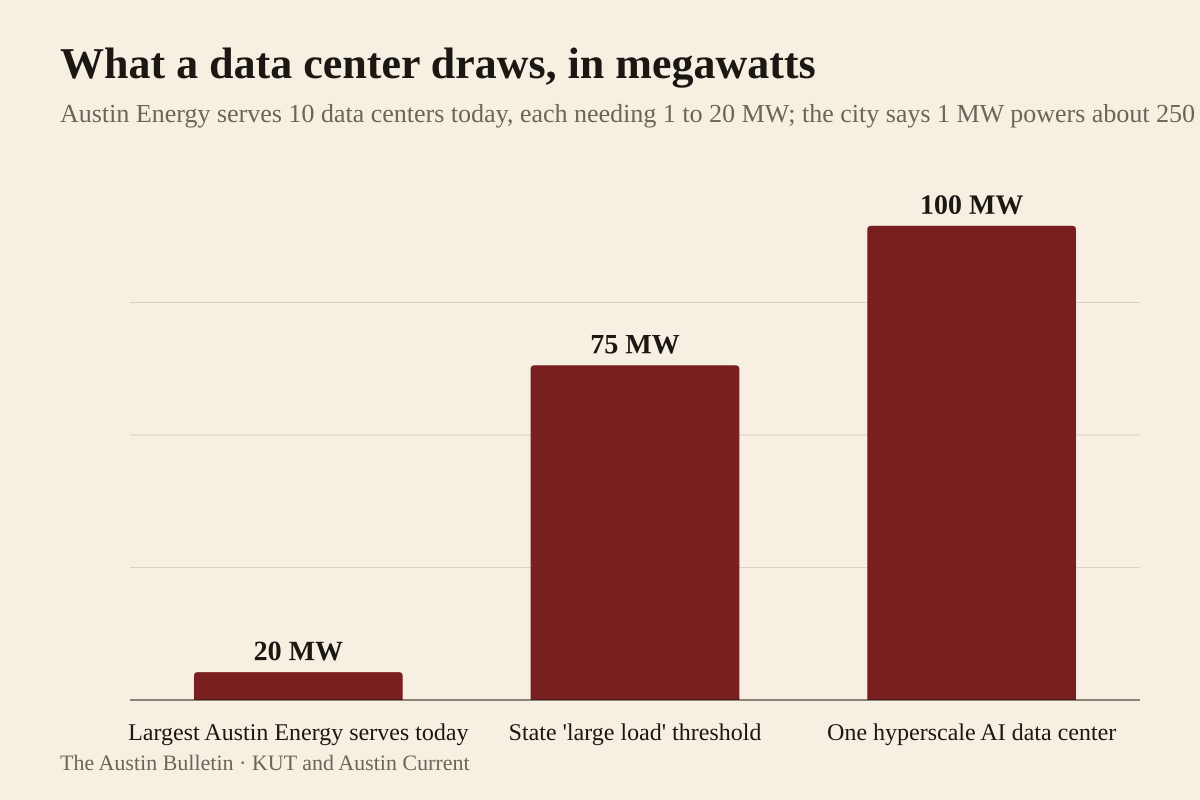
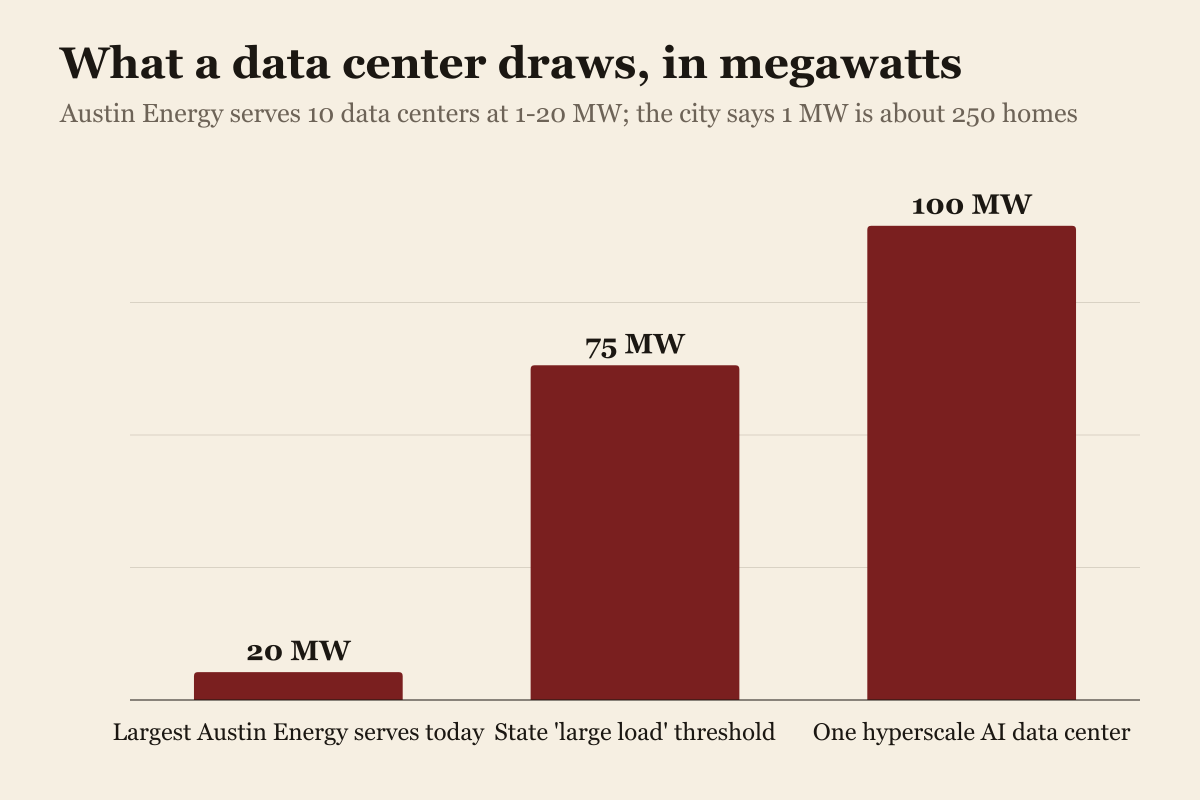
fix: Big Story chart formatting, per Evan's annotated review
The hero image sits flush with the text column — the wide-screen bleed
was clipping chart titles at the right edge. Charts no longer bake a
credit footer into the PNG; the HTML figcaption is the single credit.
graphic.mjs refuses titles over 46 chars and subtitles over 88, since
rendered width varies with the rasterizer's font; two mutation-checked
tests pin the caps. All bar/timeline graphics re-rendered; five specs
re-worded to fit, figures unchanged.

diff --git a/src/css/style.css b/src/css/style.css
@@ -229,12 +229,10 @@ h2.glance-title::after { content: none; }
   .glance-grid li:nth-child(2n + 1) { border-left: none; }
 }
 
-/* Lead story: larger headline; its image bleeds past the text column on wide screens */
+/* Lead story: larger headline. The hero image sits flush with the text
+   column (the old wide-screen bleed clipped chart titles at the right edge
+   — Evan, 2026-08-29). */
 .bulletin h3:first-of-type { font-size: 2.3rem; line-height: 1.12; }
-@media (min-width: 60rem) {
-  .bulletin h3:first-of-type + p,
-  .bulletin h3:first-of-type + p + figcaption { margin-left: -6rem; margin-right: -6rem; }
-}
 .bulletin h3 + p img { margin-top: 0.2rem; }
 
 /* "What's next" line under each story */

diff --git a/logs/2026-08-29.md b/logs/2026-08-29.md
@@ -191,3 +191,15 @@ ERCOT's condition word. Today's stored glance data was updated to match:
 7:37 p.m., state "normal") and the grid blurb now carries both ERCOT figures
 ("demand near 87,400 megawatts, with 104,400 on hand"). No other stored
 numbers changed.
+
+## Evening addendum 2 (Big Story formatting, Evan's session)
+
+Three chart/layout fixes from Evan's annotated screenshot: the hero image no
+longer bleeds past the text column (the bleed was clipping chart titles at
+the right edge), charts no longer bake a credit line into the PNG (the HTML
+figcaption is the single credit), and graphic.mjs now refuses titles over 46
+chars and subtitles over 88 — rendered text width varies with the rasterizer's
+font, so overflow must be prevented, not eyeballed. All 14 bar/timeline
+graphics re-rendered from their stored specs; five specs' titles/subtitles
+were shortened to fit (same facts, fewer characters), which re-words the
+headings inside older editions' chart images. No figures changed anywhere.
